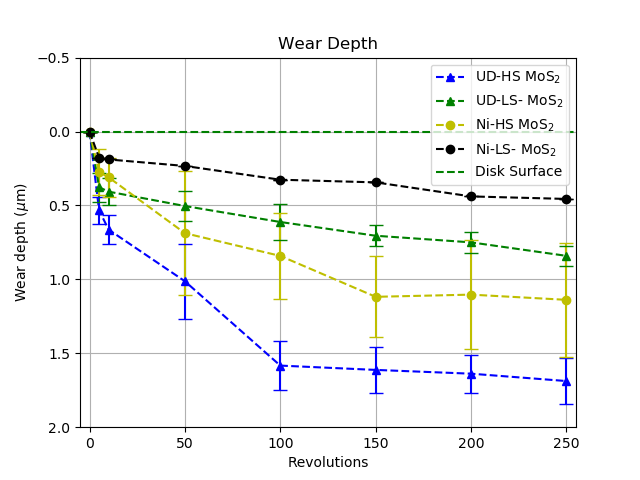
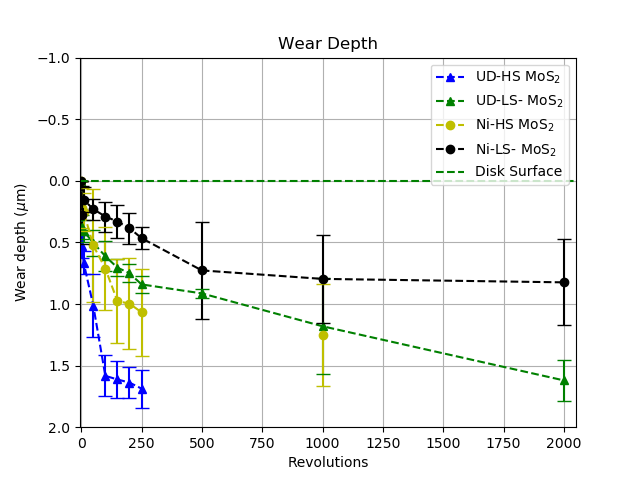
Added 2 plots section

diff --git a/wear_depth_plot.py b/wear_depth_plot.py
@@ -4,38 +4,49 @@ import matplotlib.transforms as transforms
 import numpy as np
 
 
-revolutions = np.array([0, 5, 10, 50, 100, 150, 200, 250])
+revolutions = np.array([0, 5, 10, 50, 100, 150, 200, 250, 500, 1000, 2000])
 
 # Data Undoped HS for plotting
-UD_HS_raw_s1_30mm = np.array([0, 0.555,0.816,0.738,1.614,1.607,1.654,1.675])
-UD_HS_raw_s1_18mm = np.array([0, 0.418, 0.556, 1.356, 1.356, 1.425, 1.461, 1.506])
-UD_HS_raw_s2_30mm = np.array([0, 0.67, 0.66, 1.16, 1.82, 1.85, 1.82, 1.93])
-UD_HS_raw_s2_18mm = np.array([0, 0.489, 0.622, 0.798, 1.5432, 1.568, 1.6172, 1.6404])
+UD_HS_raw_s1_30mm = np.array([0, 0.555, 0.816, 0.738, 1.614, 1.607, 1.654, 1.67, np.nan, 1.789, np.nan])
+UD_HS_raw_s1_18mm = np.array([0, 0.418, 0.556, 1.356, 1.356, 1.425, 1.461, 1.506, np.nan, 1.778, np.nan])
+UD_HS_raw_s2_30mm = np.array([0, 0.67, 0.66, 1.16, 1.82, 1.85, 1.82, 1.93, np.nan, 1.878, np.nan])
+UD_HS_raw_s2_18mm = np.array([0, 0.489, 0.622, 0.798, 1.5432, 1.568, 1.6172, 1.6404, np.nan, np.nan, np.nan])
+#UD_HS_raw_s1_15mm = np.array([0, np.nan, np.nan, np.nan,np.nan, np.nan, np.nan,np.nan, np.nan, 1.789, np.nan])
+#UD_HS_raw_s1_22_5mm = np.array([0, np.nan, np.nan, np.nan,np.nan, np.nan, np.nan,np.nan, np.nan, 1.778, np.nan])
+#UD_HS_raw_s2_15mm = np.array([0, np.nan, np.nan, np.nan,np.nan, np.nan, np.nan,np.nan, np.nan, 1.878, np.nan])
+#UD_HS_raw_s2_22_5mm = np.array([0, np.nan, np.nan, np.nan,np.nan, np.nan, np.nan,np.nan, np.nan, np.nan, np.nan])
 UD_HS_array = np.array([UD_HS_raw_s1_30mm,UD_HS_raw_s2_30mm, UD_HS_raw_s1_18mm, UD_HS_raw_s2_18mm])
 
 UD_HS_mean = np.mean(UD_HS_array, axis = 0)
 UD_HS_std = np.std(UD_HS_array, axis = 0)
 print(UD_HS_mean)
-#print(UD_HS_std)
+print(UD_HS_std)
 
 # Data Ni-doped HS for plotting
-ND_HS_raw_s1_30mm = np.array([0, 0.426, 0.422, 0.641, 0.717, 1.3786, 1.4544, 1.481])
-ND_HS_raw_s1_18mm = np.array([0, 0.333, 0.382, 1.222, 1.2445, 1.2346, 1.2624, 1.3315])
-ND_HS_raw_s2_30mm = np.array([0, 0.061, 0.126, 0.200, 0.563, 0.741, 0.593, 0.603])
-ND_HS_raw_s2_18mm = np.array([0,0,0,0,0,0,0,0])
-ND_HS_array = np.array([ND_HS_raw_s1_30mm,ND_HS_raw_s2_30mm,ND_HS_raw_s1_18mm])
+ND_HS_raw_s1_30mm = np.array([0, 0.426, 0.422, 0.641, 0.717, 1.3786, 1.4544, 1.481, np.NA, 1.667, np.NA])
+ND_HS_raw_s1_18mm = np.array([0, 0.333, 0.382, 1.222, 1.2445, 1.2346, 1.2624, 1.3315, np.NA, 1.656, np.NA])
+ND_HS_raw_s2_30mm = np.array([0, 0.061, 0.126, 0.200, 0.563, 0.741, 0.593, 0.603, np.NA, 0.844, np.NA])
+ND_HS_raw_s2_18mm = np.array([0, 0.068, 0.0704, 0.037, 0.326, 0.548, 0.681, 0.852, np.NA, 0.833, np.NA])
+#ND_HS_raw_s1_15mm = np.array([0, np.nan, np.nan, np.nan,np.nan, np.nan, np.nan,np.nan, np.nan, 1.667, np.nan])
+#ND_HS_raw_s1_28_5mm = np.array([0, np.nan, np.nan, np.nan,np.nan, np.nan, np.nan,np.nan, np.nan, 1.656, np.nan])
+#ND_HS_raw_s2_15mm = np.array([0, np.nan, np.nan, np.nan,np.nan, np.nan, np.nan,np.nan, np.nan, 0.844, np.nan])
+#ND_HS_raw_s2_28_5mm = np.array([0, np.nan, np.nan, np.nan,np.nan, np.nan, np.nan,np.nan, np.nan, 0.833, np.nan])
+
+ND_HS_array = np.array([ND_HS_raw_s1_30mm,ND_HS_raw_s2_30mm,ND_HS_raw_s1_18mm, ND_HS_raw_s2_18mm])
+
 
 ND_HS_mean = np.mean(ND_HS_array, axis = 0)
 ND_HS_std = np.std(ND_HS_array, axis = 0)
-#print(ND_HS_mean)
-#print(ND_HS_std)
+print(ND_HS_mean)
+print(ND_HS_std)
 
 
 # Data Undoped LS for plotting
-UD_LS_raw_s1_24mm = np.array([0, 0.319, 0.359, 0.417, 0.644, 0.700, 0.729, 0.883])
-UD_LS_raw_s1_16_5mm = np.array([0, 0.302, 0.344, 0.457, 0.498, 0.622, 0.670, 0.744])
-UD_LS_raw_s2_24mm = np.array([0, 0.546, 0.563, 0.681, 0.800, 0.817, 0.867, 0.922])
-UD_LS_raw_s2_16_5mm = np.array([0, 0.341, 0.361, 0.461, 0.506, 0.681, 0.733, 0.815])
+UD_LS_raw_s1_24mm = np.array([0, 0.319, 0.359, 0.417, 0.644, 0.700, 0.729, 0.883, 0.906, 0.956, 1.656])
+UD_LS_raw_s1_16_5mm = np.array([0, 0.302, 0.344, 0.457, 0.498, 0.622, 0.670, 0.744, 0.853, 0.926, 1.444])
+UD_LS_raw_s2_24mm = np.array([0, 0.546, 0.563, 0.681, 0.800, 0.817, 0.867, 0.922, 0.956, 1.852, 1.87])
+UD_LS_raw_s2_16_5mm = np.array([0, 0.341, 0.361, 0.461, 0.506, 0.681, 0.733, 0.815, 0.941, 0.989, 1.511])
+
 UD_LS_array = np.array([UD_LS_raw_s1_24mm, UD_LS_raw_s2_24mm, UD_LS_raw_s1_16_5mm, UD_LS_raw_s2_16_5mm])
 
 UD_LS_mean = np.mean(UD_LS_array, axis=0)
@@ -44,12 +55,11 @@ print(UD_LS_mean)
 print(UD_LS_std)
 
 # Data Ni-doped LS for plotting
-ND_LS_raw_s1_24mm = np.array([0, 0.178, 0.189, 0.233, 0.326, 0.344, 0.439, 0.456])
-'''
-ND_LS_raw_s1_16_5mm = np.array([0, 0.333, 0.382, 1.222, 1.2445, 1.2346, 1.2624, 1.3315])
-ND_LS_raw_s2_24mm = np.array([0, 0.061, 0.126, 0.200, 0.563, 0.741, 0.593, 0.603])
-ND_LS_raw_s2_16_5mm = np.array([0, ])'''
-ND_LS_array = np.array([ND_LS_raw_s1_24mm])
+ND_LS_raw_s1_24mm = np.array([0, 0.178, 0.189, 0.233, 0.326, 0.344, 0.439, 0.456, 1.389, 1.356, 1.356])
+ND_LS_raw_s1_16_5mm = np.array([0, 0.222, 0.302, 0.368, 0.46, 0.526, 0.521, 0.578, 0.63, 0.844, 0.902])
+ND_LS_raw_s2_24mm = np.array([0, 0.037, 0.067, 0.178, 0.25, 0.293, 0.396, 0.5, 0.524, 0.563, 0.589])
+ND_LS_raw_s2_16_5mm = np.array([0, 0.67, 0.057, 0.141, 0.124, 0.159, 0.181, 0.328, 0.367, 0.422, 0.45])
+ND_LS_array = np.array([ND_LS_raw_s1_24mm, ND_LS_raw_s2_24mm, ND_LS_raw_s1_16_5mm, ND_LS_raw_s2_16_5mm])
 
 
 ND_LS_mean = np.mean(ND_LS_array, axis = 0)
@@ -60,8 +70,8 @@ print(ND_LS_std)
 # Single plot
 fig, ax = plt.subplots()
 
-ax.set_ylim(2,-.5)
-ax.set_xlim(-5,255)
+ax.set_ylim(2,-1)
+ax.set_xlim(-5,2050)
 
 ax.plot(revolutions, UD_HS_mean, 'b^',
         linestyle='--',
